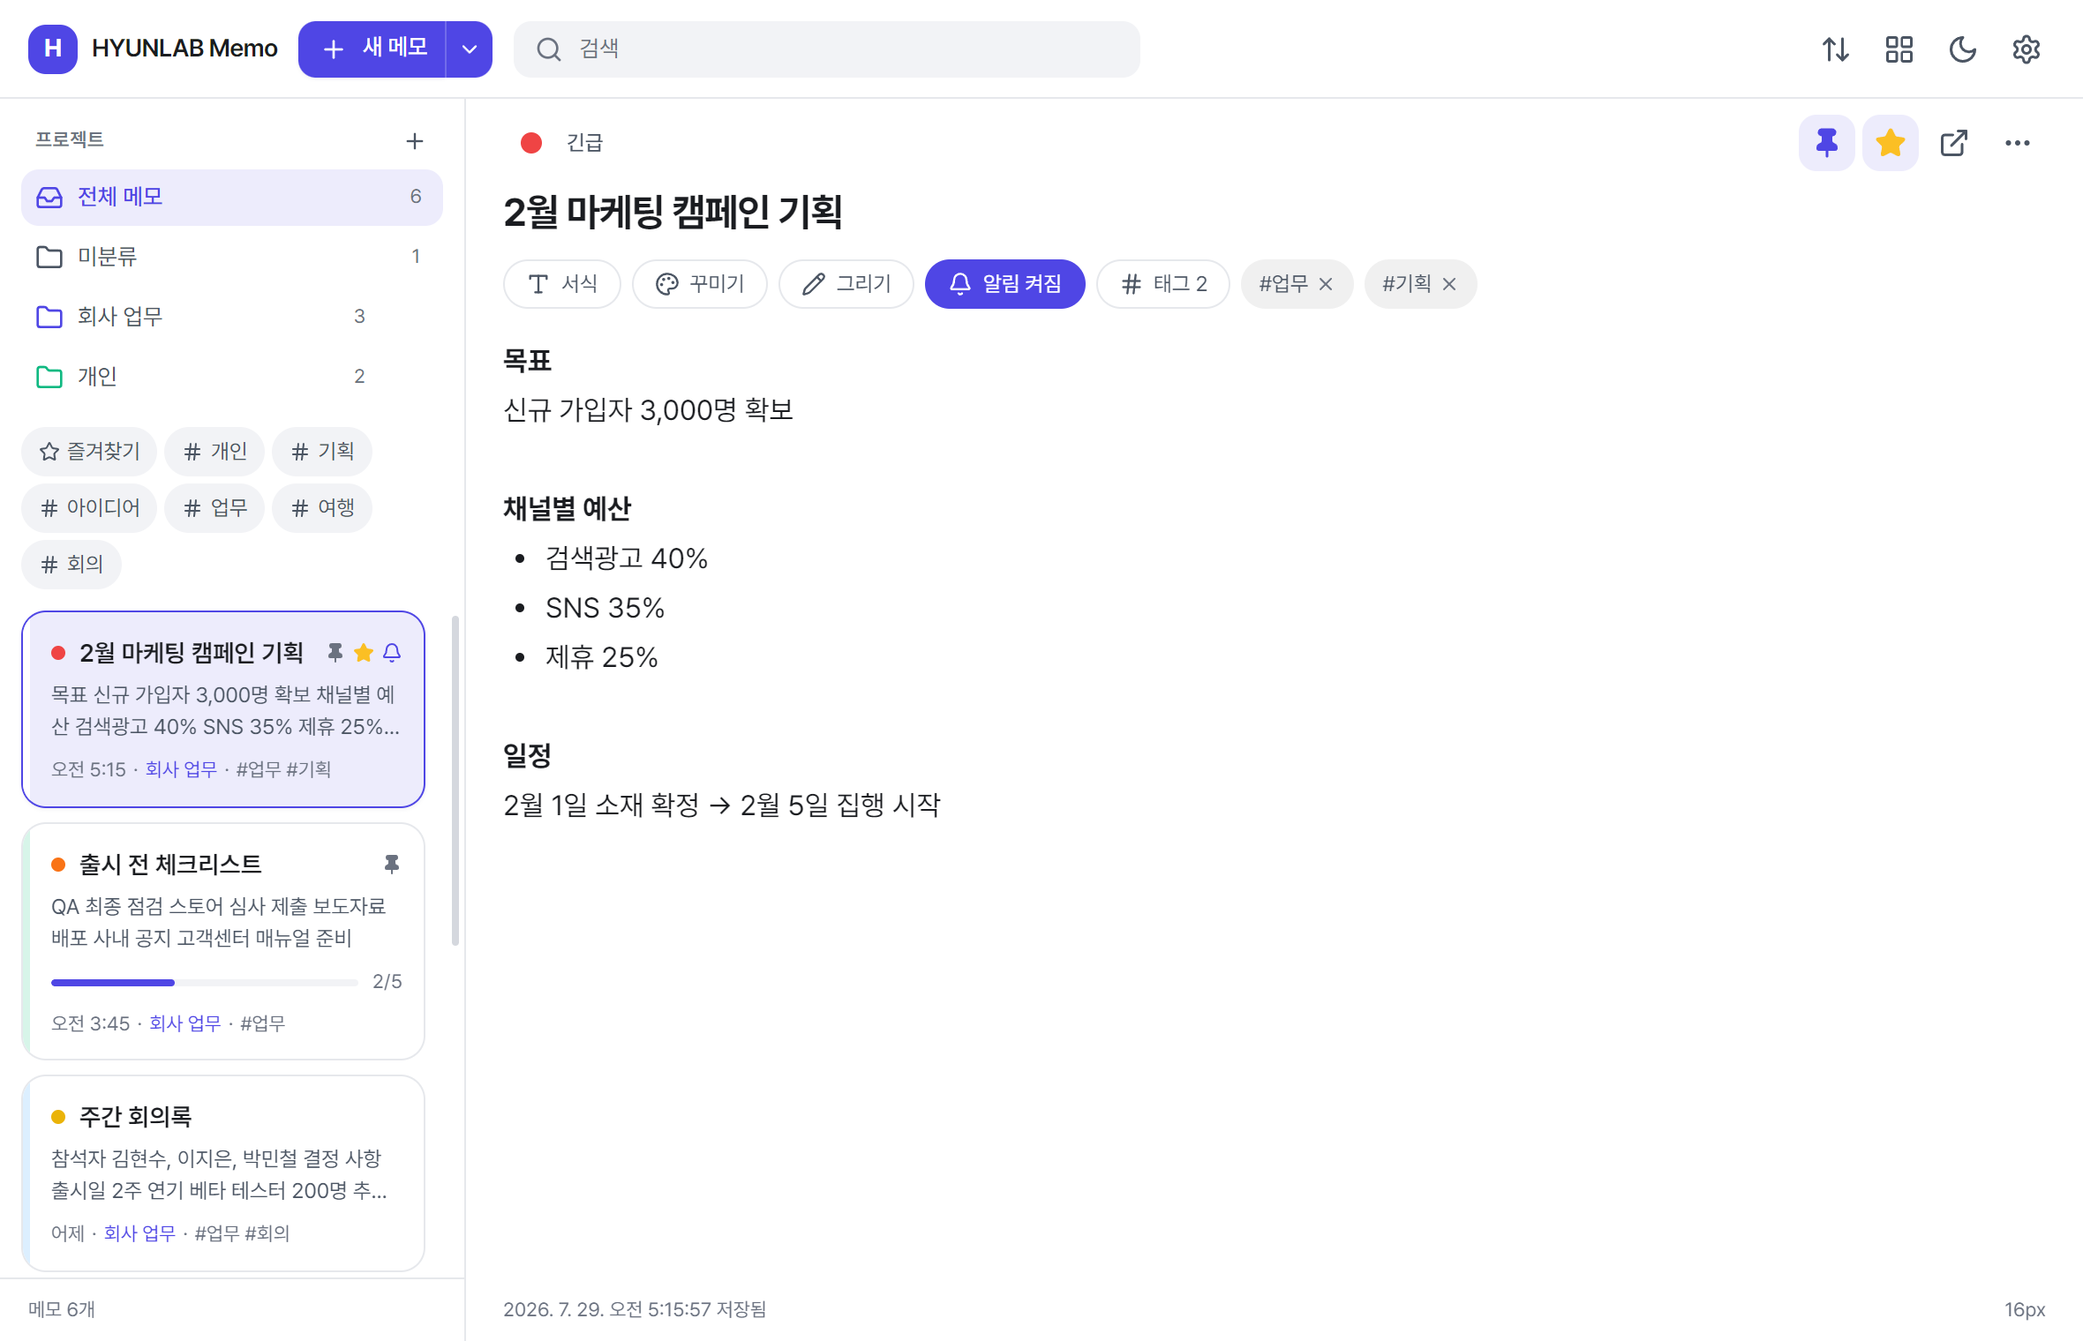
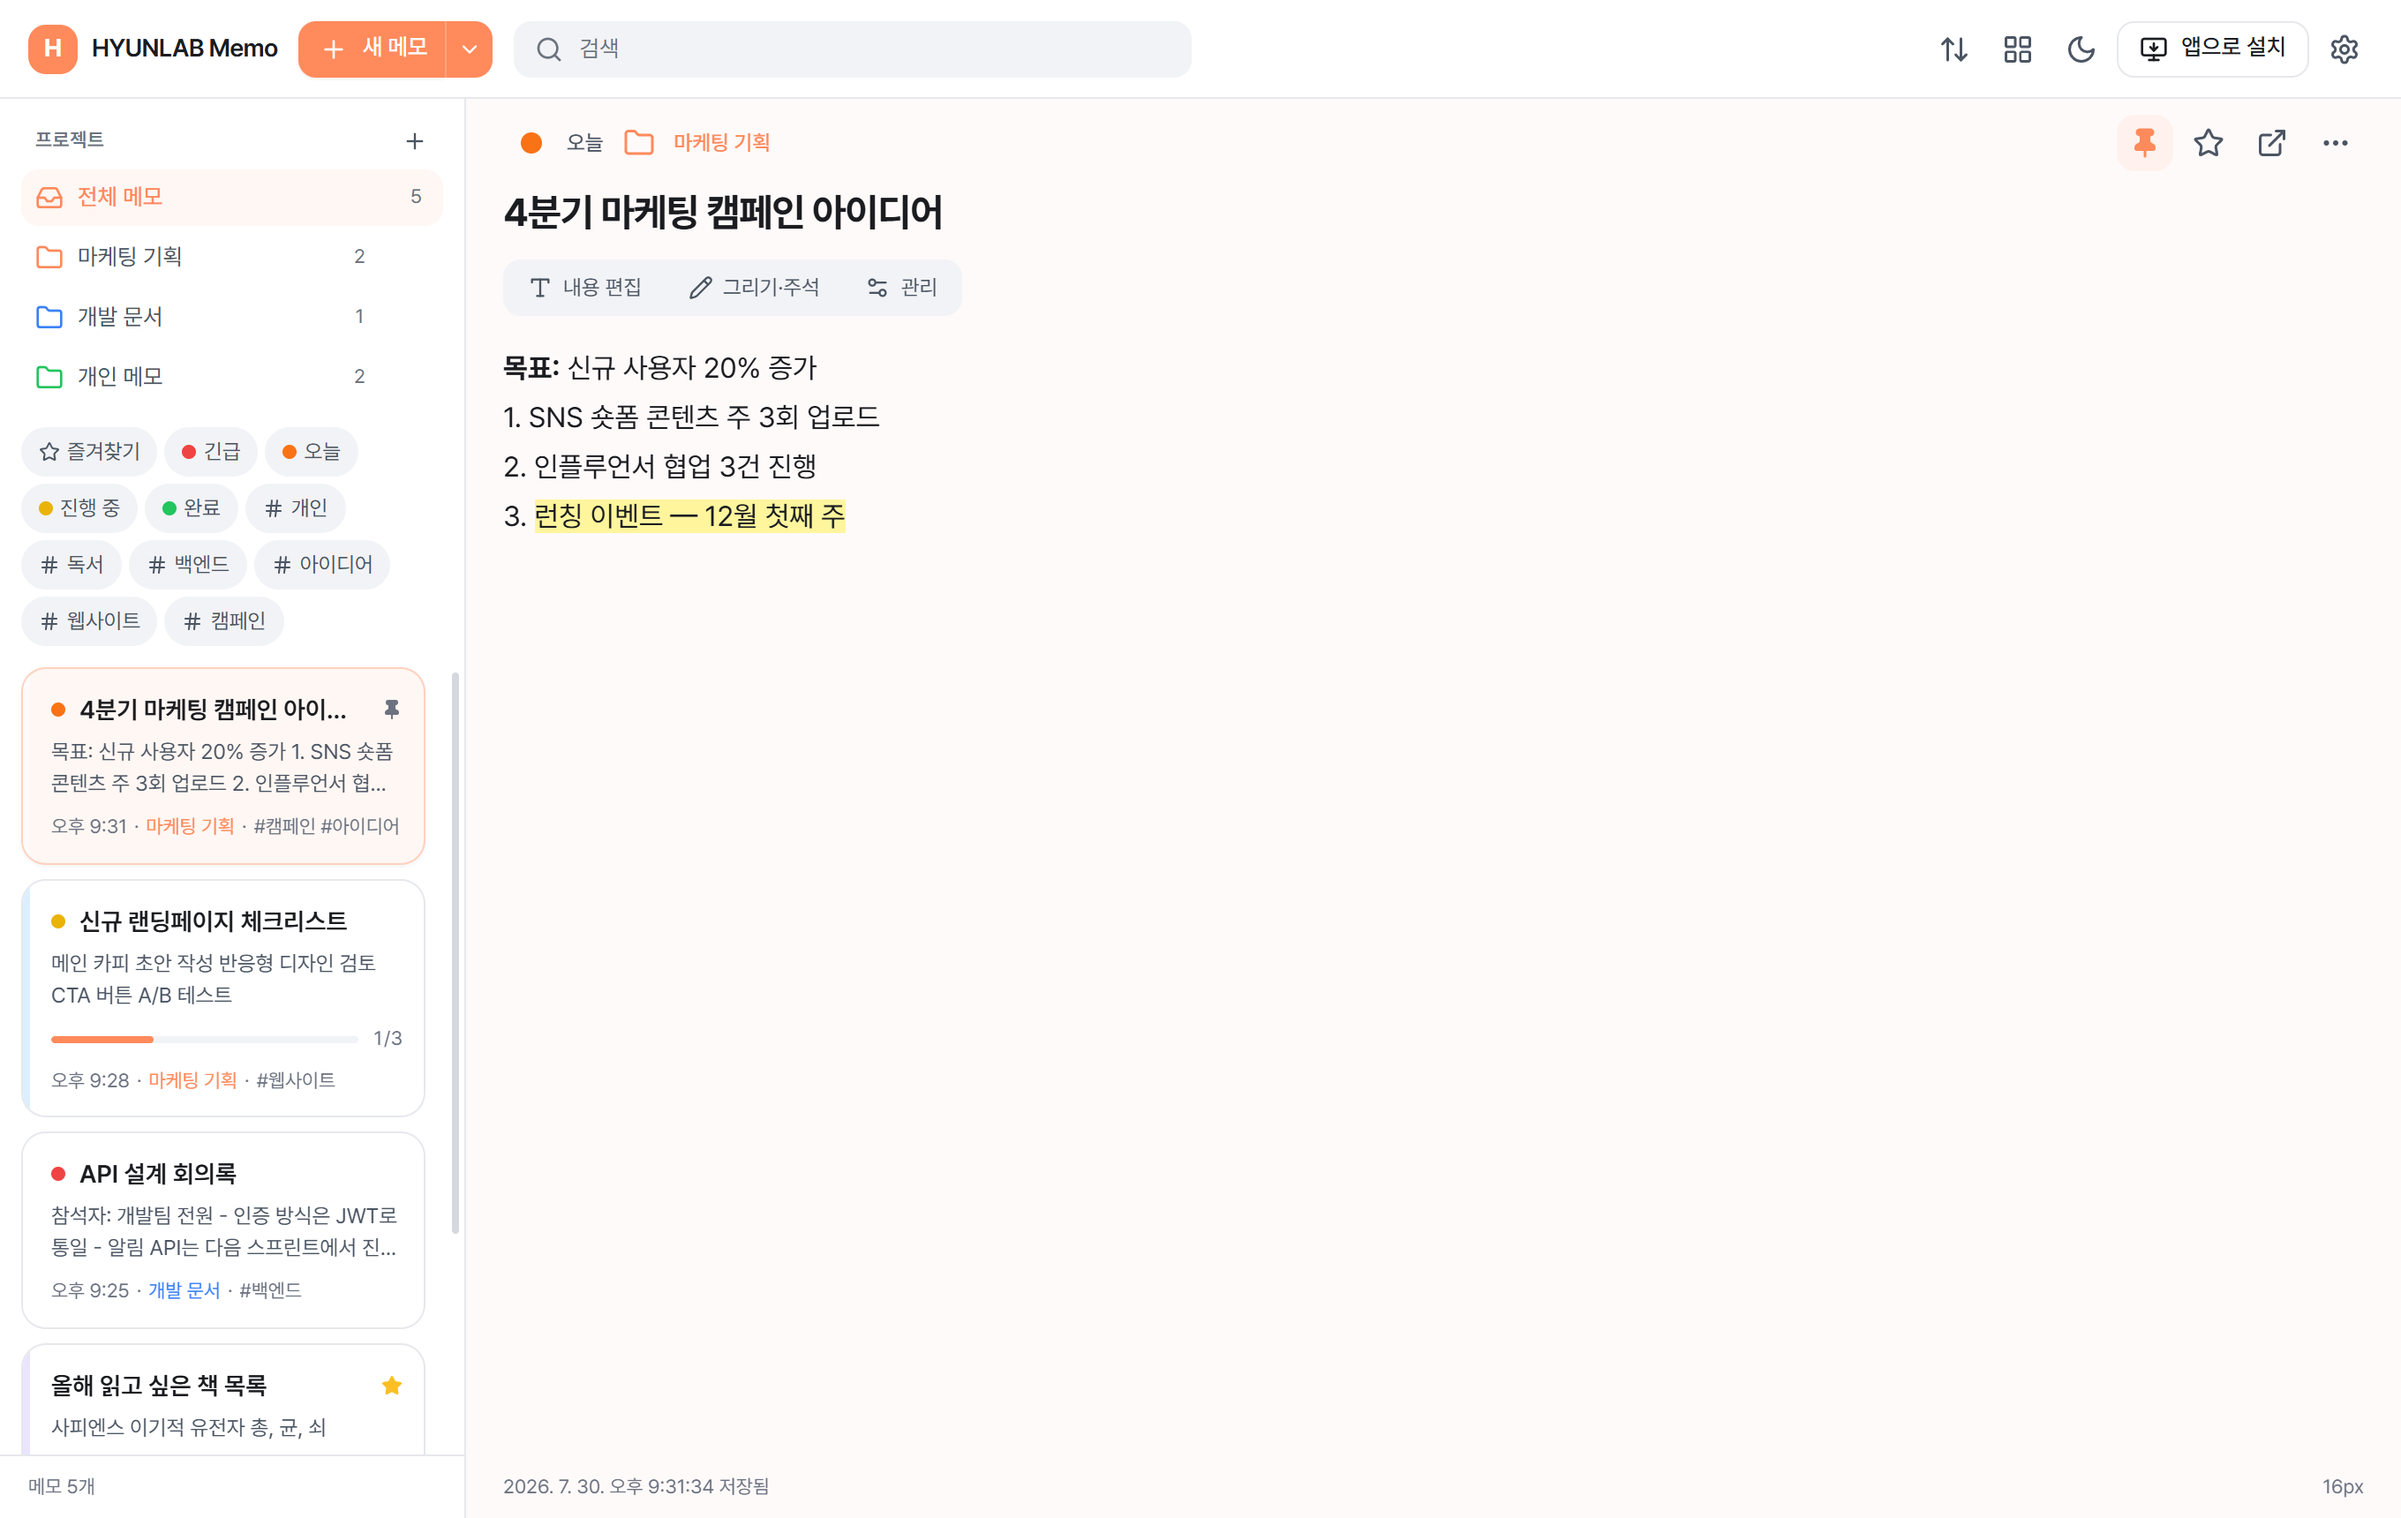
HYUNLAB Memo 프로젝트 페이지 최신화 (v1.1.0)
- 기능 목록을 프로젝트 관리/스크래치패드/팝업 메모/18종 글꼴/
  특수 이모티콘/체크리스트&태그/알림/손그림 주석으로 최신화
  (예전 8종 글꼴·이모지 목록 등 지금은 없는 항목 제거)
- 스크린샷 6장을 최신 UI 화면으로 교체
- 다운로드 링크를 releases/latest/download/ 로 변경
  (새 버전 릴리스해도 코드 수정 없이 항상 최신 파일을 가리킴)
- 버전/업데이트 날짜 1.0.0 -> 1.1.0, 체인지로그 추가

diff --git a/src/data/apps.ts b/src/data/apps.ts
@@ -245,11 +245,12 @@ export const APPS: AppEntry[] = [
   {
     id: 'hyunlab-memo',
     name: 'HYUNLAB Memo',
-    tagline: 'AI 메모 및 업무 메모',
+    tagline: '프로젝트별로 정리하는 업무 메모',
     description:
-      'HYUNLAB에서 새롭게 선보이는 웹 메모 서비스입니다. ' +
-      '설치도 가입도 없이 브라우저에서 바로 열어 쓸 수 있고, 저장 버튼 없이 자동으로 저장됩니다. ' +
-      '포스트잇처럼 띄워 두는 팝업 메모부터 체크리스트, 손그림, 알림까지 업무에 필요한 기능을 담았습니다.',
+      'HYUNLAB에서 만든 업무용 메모 앱입니다. ' +
+      '프로젝트별로 메모를 정리하고, 앱을 열면 바로 쓸 수 있는 스크래치패드로 시작해 ' +
+      '저장할 때 프로젝트를 골라 등록합니다. 팝업 메모, 18종 한글 글꼴, 손그림 주석, ' +
+      '일정 알림까지 업무에 필요한 기능을 담았고, 웹과 Windows 앱에서 동일하게 씁니다.',
     icon: '/icons/app-512.png',
 
     type: 'web',
@@ -260,18 +261,19 @@ export const APPS: AppEntry[] = [
     isNew: true,
     featured: true,
 
-    version: '1.0.0',
-    updatedAt: '2026-07-29',
+    version: '1.1.0',
+    updatedAt: '2026-07-30',
     webUrl: 'https://b30310-cmd.github.io/hyunlab-memo/app/',
     pwa: true,
     repo: 'https://github.com/b30310-cmd/hyunlab-memo',
 
     // 웹이 기본이지만 Windows 설치 버전도 함께 제공합니다.
+    // releases/latest/download/ 링크라 새 버전을 릴리스해도 계속 최신 파일을 가리킵니다.
     downloads: [
       {
         platform: 'Windows',
         store: 'direct',
-        url: 'https://github.com/b30310-cmd/hyunlab-memo/releases/download/v1.0.0/HYUNLAB-Memo-Setup-1.0.0.exe',
+        url: 'https://github.com/b30310-cmd/hyunlab-memo/releases/latest/download/HYUNLAB-Memo-Setup.exe',
         size: '80.2MB',
         requirement: 'Windows 10 이상 (64bit)',
         label: 'Windows 설치 버전',
@@ -279,26 +281,38 @@ export const APPS: AppEntry[] = [
     ],
 
     features: [
-      { icon: '📌', title: '팝업 메모', desc: '바탕화면에 붙여 두고 항상 위에 고정' },
-      { icon: '✅', title: '체크리스트', desc: '체크하면 취소선과 진행률 자동 표시' },
+      { icon: '🗂', title: '프로젝트 관리', desc: '메모를 프로젝트별로 정리, 드래그로 이동' },
+      { icon: '📝', title: '스크래치패드', desc: '앱을 열면 바로 쓰는 임시 작업 공간' },
+      { icon: '📌', title: '팝업 메모', desc: '여러 개를 동시에 띄우고 항상 위에 고정' },
+      { icon: '🔤', title: '18종 한글 글꼴', desc: '업무용·바탕체·손글씨·제목용, 검색·즐겨찾기' },
+      { icon: '😊', title: '특수 이모티콘', desc: '검색·즐겨찾기·직접 추가' },
+      { icon: '✅', title: '체크리스트 & 태그', desc: '체크하면 취소선과 진행률 자동 표시' },
       { icon: '🔔', title: '일정 알림', desc: '매일·매주·매월 반복 알림' },
-      { icon: '🎨', title: '다양한 배경색', desc: '8가지 기본색 + 직접 추가' },
-      { icon: '🔤', title: '다양한 글꼴', desc: 'Pretendard·SUIT 등 8종' },
-      { icon: '✨', title: '특수문자', desc: '카테고리별로 골라 넣기' },
-      { icon: '😊', title: '이모지', desc: '검색·최근 사용·즐겨찾기' },
-      { icon: '💾', title: '자동 저장', desc: '저장 버튼 없이 입력 즉시 보관' },
+      { icon: '✏', title: '손그림 주석', desc: '펜·형광펜·화살표·도형으로 표시' },
     ],
 
     screenshots: [
       { src: '/screenshots/hyunlab-memo/01-main.png', caption: '메인 화면 — 프로젝트별로 메모를 정리합니다' },
-      { src: '/screenshots/hyunlab-memo/02-checklist.png', caption: '체크리스트 — 완료하면 취소선과 진행률이 표시됩니다' },
-      { src: '/screenshots/hyunlab-memo/04-drawing.png', caption: '손그림 메모 — 글 위에 펜·형광펜·화살표로 표시' },
-      { src: '/screenshots/hyunlab-memo/03-design.png', caption: '꾸미기 — 배경색·스킨·폰트·테두리 변경' },
-      { src: '/screenshots/hyunlab-memo/05-skins.png', caption: '다양한 스킨 — 줄노트·모눈·점선·포스트잇' },
+      { src: '/screenshots/hyunlab-memo/02-scratchpad.png', caption: '스크래치패드 — 앱을 열면 바로 쓰는 임시 작업 공간' },
+      { src: '/screenshots/hyunlab-memo/03-fonts.png', caption: '18종 한글 글꼴 — 실시간 미리보기로 골라 씁니다' },
+      { src: '/screenshots/hyunlab-memo/04-checklist.png', caption: '체크리스트 — 완료하면 취소선과 진행률이 표시됩니다' },
+      { src: '/screenshots/hyunlab-memo/05-drawing.png', caption: '손그림 주석 — 글 위에 펜·형광펜·화살표로 표시' },
       { src: '/screenshots/hyunlab-memo/06-popup.png', caption: '팝업 메모 — 작은 창으로 띄워 두고 사용' },
     ],
 
     changelog: [
+      {
+        version: '1.1.0',
+        date: '2026-07-30',
+        changes: [
+          '프로젝트 기반 메모 관리 추가 (드래그·우클릭·편집 화면에서 이동)',
+          '스크래치패드(임시 작업 공간) 추가 — 저장 시 프로젝트 지정',
+          '팝업 메모 개선 — 독립 창으로 여러 개 동시에 사용',
+          '한글 글꼴 18종으로 확장 (업무용·바탕체·손글씨·제목용), 검색·즐겨찾기 지원',
+          '특수 이모티콘 기능 추가 (검색·즐겨찾기·직접 추가)',
+          '메모 검색(제목·본문·태그) 개선',
+        ],
+      },
       {
         version: '1.0.0',
         date: '2026-07-29',
